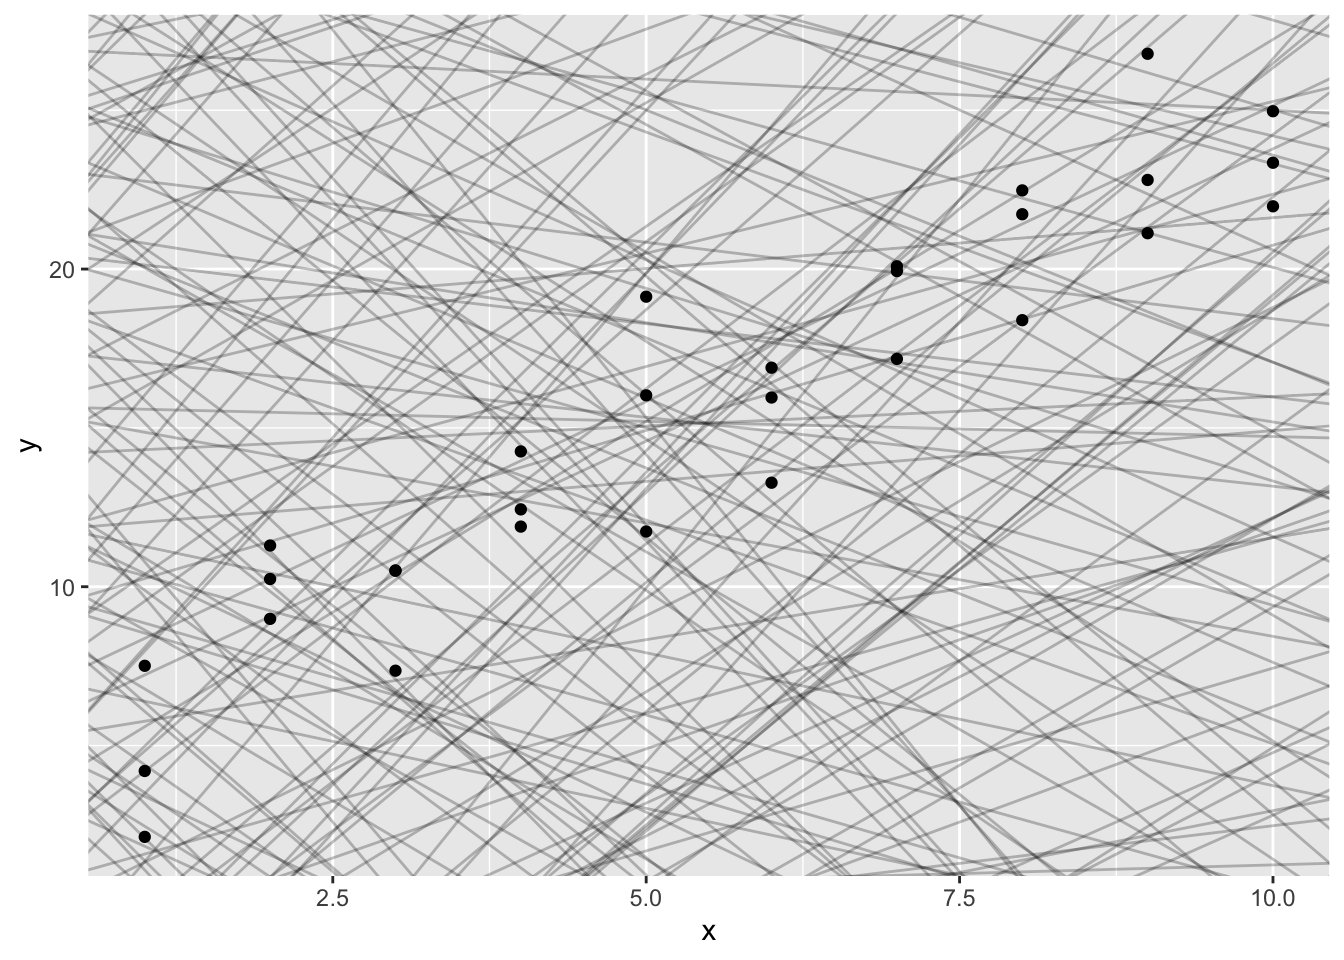
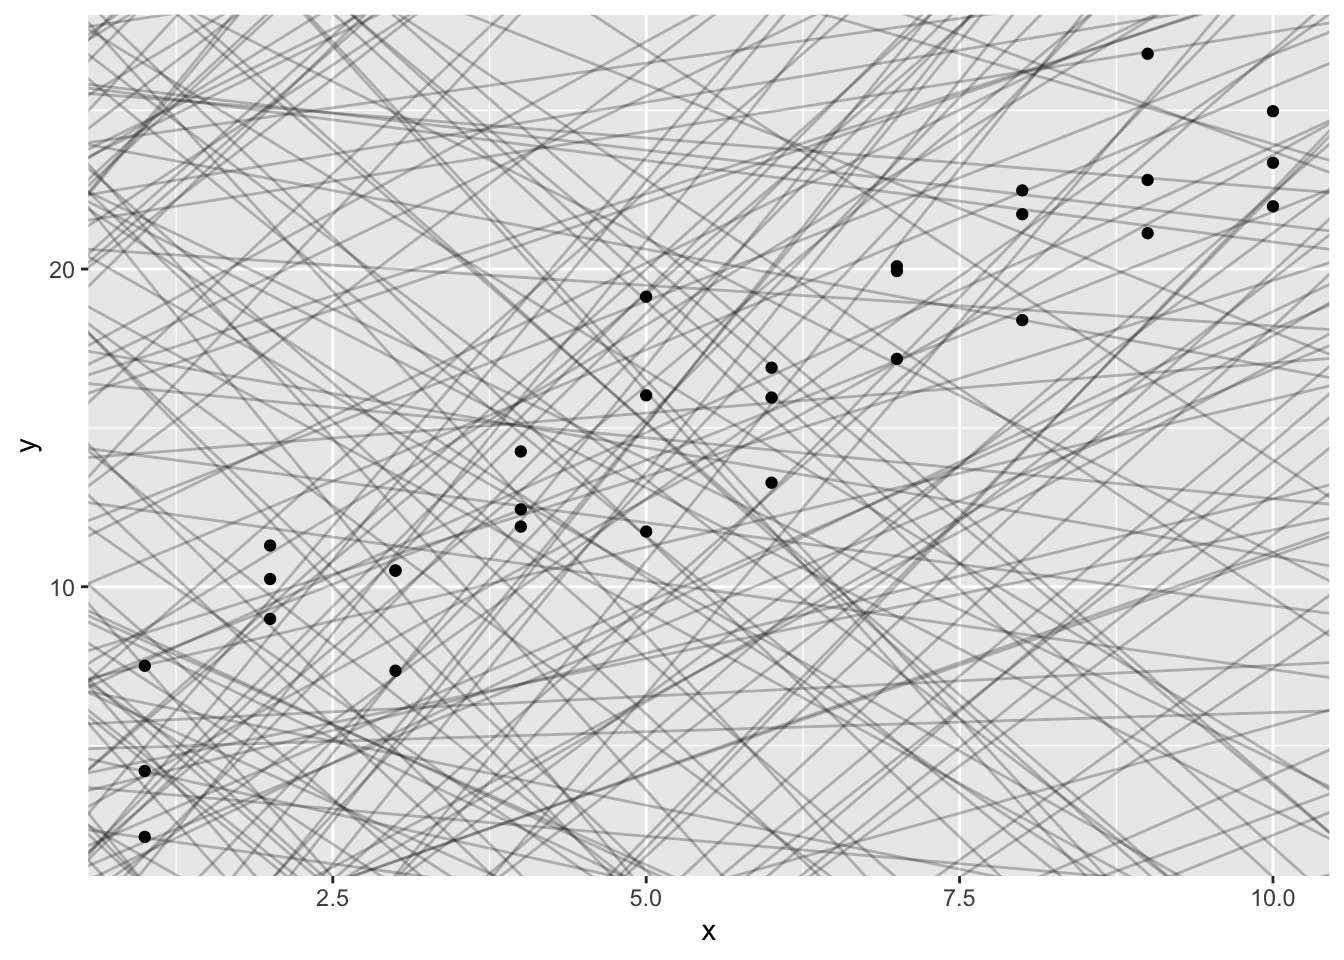
update

diff --git a/docs/index.html b/docs/index.html
@@ -156,8 +156,8 @@ ul.task-list li input[type="checkbox"] {
 <p><i class="fa-solid fa-calendar" aria-label="calendar"></i> &nbsp; Sep 5 - Sep 15</p>
 <p><i class="fa-solid fa-map-marker" aria-label="map-marker"></i> &nbsp; TMEC 443<a href="#fn1" class="footnote-ref" id="fnref1" role="doc-noteref"><sup>1</sup></a></p>
 </section>
-<section id="instructor" class="level3 unnumbered">
-<h3 class="unnumbered">Instructor</h3>
+<section id="instructors" class="level3 unnumbered">
+<h3 class="unnumbered">Instructors</h3>
 <div class="columns">
 <div class="column" style="width:50%;">
 <section id="eren-ada-phd" class="level5">
@@ -169,11 +169,9 @@ ul.task-list li input[type="checkbox"] {
 <p><i class="fa-solid fa-calendar" aria-label="calendar"></i> &nbsp; By Appointment</p>
 </blockquote>
 </section>
-<section id="teaching-assistant" class="level3 unnumbered">
-<h3 class="unnumbered" data-anchor-id="teaching-assistant">Teaching Assistant</h3>
 <div class="column" style="width:50%;">
-<section id="jessica-frank" class="level5">
-<h5 data-anchor-id="jessica-frank"><i class="fa-solid fa-user" aria-label="user"></i> &nbsp; Jessica Frank</h5>
+<section id="jessica-frank-teaching-assistant" class="level5">
+<h5 data-anchor-id="jessica-frank-teaching-assistant"><i class="fa-solid fa-user" aria-label="user"></i> &nbsp; Jessica Frank (Teaching Assistant)</h5>
 <blockquote class="blockquote">
 <p><i class="fa-solid fa-university" aria-label="university"></i> PhD Student at Immunology, HMS</p>
 <p><i class="fa-solid fa-envelope" aria-label="envelope"></i> &nbsp; <a href="mailto:jfrank@g.harvard.edu">jfrank@g.harvard.edu</a></p>
@@ -184,13 +182,12 @@ ul.task-list li input[type="checkbox"] {
 </blockquote>
 </section>
 </div>
-</section>
 </div><section id="schedule" class="level2">
 <h2 data-anchor-id="schedule">Schedule</h2>
 <div class="cell">
 <div class="cell-output-display">
-<div class="reactable html-widget html-fill-item" id="htmlwidget-8379cd2a6481643dfc7d" style="width:auto;height:auto;"></div>
-<script type="application/json" data-for="htmlwidget-8379cd2a6481643dfc7d">{"x":{"tag":{"name":"Reactable","attribs":{"data":{"Session":["R Basics","Functions and Data Wrangling","Data Visualization","Introduction to Models",null,null,null,null,null],"Date":["3-Sep","5-Sep","10-Sep","12-Sep",null,null,null,null,null],"Time":["9:00am - 11:00am","9:00am - 11:00am","9:00am - 11:00am","9:00am - 11:00am",null,null,null,null,null]},"columns":[{"id":"Session","name":"Session","type":"character"},{"id":"Date","name":"Date","type":"character"},{"id":"Time","name":"Time","type":"character"}],"sortable":false,"theme":{"color":"#212529","backgroundColor":"#ffffff","borderColor":"#ffffff","borderWidth":"1px","stripedColor":"#ecf0f1","highlightColor":"#ecf0f1","cellPadding":6,"tableStyle":{"fontSize":14},"headerStyle":{"borderWidth":"2px","backgroundColor":"#2c3e50","color":"#ffffff","transitionDuration":"0.5s","&:hover[aria-sort]":{"color":"#1cbc9c"},"&[aria-sort='ascending'], &[aria-sort='descending']":{"color":"#1cbc9c"},"fontSize":15},"groupHeaderStyle":{"&:not(:empty)":{"color":"#212529","fontSize":15},"&:hover":{"fontWeight":"bold","transitionDuration":"1s","transitionTimingFunction":"ease-out","color":"#1cbc9c"}},"rowSelectedStyle":{"backgroundColor":"#2c3e50","color":"#ffffff"},"inputStyle":{"backgroundColor":"#ffffff","color":"#212529"},"searchInputStyle":{"backgroundColor":"#ffffff","color":"#212529","&:focus":{"color":"#212529"}},"selectStyle":{"backgroundColor":"#18bc9c","color":"#ffffff","borderColor":"#ffffff","outlineColor":"#ffffff","&:hover":{"backgroundColor":"#0f7864"}},"pageButtonStyle":{"backgroundColor":"#18bc9c","color":"#ffffff","&:hover":{"backgroundColor":"#0f7864"}},"pageButtonHoverStyle":{"backgroundColor":"#0f7864","color":"#ffffff"},"pageButtonActiveStyle":{"backgroundColor":"#0f7864","color":"#ffffff"},"pageButtonCurrentStyle":{"backgroundColor":"#0f7864","color":"#ffffff"}},"dataKey":"c2d299dcc1453c21a02ff924514fc886"},"children":[]},"class":"reactR_markup"},"evals":[],"jsHooks":[]}</script>
+<div class="reactable html-widget html-fill-item" id="htmlwidget-ca5a7edb5cad6c189465" style="width:auto;height:auto;"></div>
+<script type="application/json" data-for="htmlwidget-ca5a7edb5cad6c189465">{"x":{"tag":{"name":"Reactable","attribs":{"data":{"Session":["R Basics","Functions and Data Wrangling","Data Visualization","Introduction to Models",null,null,null,null,null],"Date":["3-Sep","5-Sep","10-Sep","12-Sep",null,null,null,null,null],"Time":["9:00am - 11:00am","9:00am - 11:00am","9:00am - 11:00am","9:00am - 11:00am",null,null,null,null,null]},"columns":[{"id":"Session","name":"Session","type":"character"},{"id":"Date","name":"Date","type":"character"},{"id":"Time","name":"Time","type":"character"}],"sortable":false,"theme":{"color":"#212529","backgroundColor":"#ffffff","borderColor":"#ffffff","borderWidth":"1px","stripedColor":"#ecf0f1","highlightColor":"#ecf0f1","cellPadding":6,"tableStyle":{"fontSize":14},"headerStyle":{"borderWidth":"2px","backgroundColor":"#2c3e50","color":"#ffffff","transitionDuration":"0.5s","&:hover[aria-sort]":{"color":"#1cbc9c"},"&[aria-sort='ascending'], &[aria-sort='descending']":{"color":"#1cbc9c"},"fontSize":15},"groupHeaderStyle":{"&:not(:empty)":{"color":"#212529","fontSize":15},"&:hover":{"fontWeight":"bold","transitionDuration":"1s","transitionTimingFunction":"ease-out","color":"#1cbc9c"}},"rowSelectedStyle":{"backgroundColor":"#2c3e50","color":"#ffffff"},"inputStyle":{"backgroundColor":"#ffffff","color":"#212529"},"searchInputStyle":{"backgroundColor":"#ffffff","color":"#212529","&:focus":{"color":"#212529"}},"selectStyle":{"backgroundColor":"#18bc9c","color":"#ffffff","borderColor":"#ffffff","outlineColor":"#ffffff","&:hover":{"backgroundColor":"#0f7864"}},"pageButtonStyle":{"backgroundColor":"#18bc9c","color":"#ffffff","&:hover":{"backgroundColor":"#0f7864"}},"pageButtonHoverStyle":{"backgroundColor":"#0f7864","color":"#ffffff"},"pageButtonActiveStyle":{"backgroundColor":"#0f7864","color":"#ffffff"},"pageButtonCurrentStyle":{"backgroundColor":"#0f7864","color":"#ffffff"}},"dataKey":"c2d299dcc1453c21a02ff924514fc886"},"children":[]},"class":"reactR_markup"},"evals":[],"jsHooks":[]}</script>
 </div>
 </div>
 

diff --git a/docs/session-materials/session1/other-data-types.html b/docs/session-materials/session1/other-data-types.html
@@ -440,16 +440,16 @@ Levels: high low medium</code></pre>
 <div class="sourceCode cell-code" id="cb10"><pre class="sourceCode r code-with-copy"><code class="sourceCode r"><span id="cb10-1"><a href="#cb10-1" aria-hidden="true" tabindex="-1"></a>df</span></code><button title="Copy to Clipboard" class="code-copy-button"><i class="bi"></i></button></pre></div>
 <div class="cell-output cell-output-stdout">
 <pre><code>   gene_names expression numeric_expression
-1         Asl       high          4976.7716
-2        Apod        low          1500.3325
-3     Cyp2d22        low           187.8776
-4        Klk6     medium          2528.6701
-5       Fcrls       high          4426.9220
-6      Slc2a4     medium          2054.2431
-7        Exd2     medium          1858.0027
-8        Gjc2        low          1841.7497
-9        Plp1        low         -1104.2861
-10       Gnb4        low          2425.0649</code></pre>
+1         Asl       high          2695.4764
+2        Apod        low          -317.4054
+3     Cyp2d22        low          1636.4373
+4        Klk6     medium          1001.9097
+5       Fcrls       high          2528.0815
+6      Slc2a4     medium           197.9132
+7        Exd2     medium          1269.6787
+8        Gjc2        low           202.6665
+9        Plp1        low          1832.2478
+10       Gnb4        low          1696.8919</code></pre>
 </div>
 </div>
 </section>
@@ -473,16 +473,16 @@ Levels: low medium high
 
 [[2]]
    gene_names expression numeric_expression
-1         Asl       high          4976.7716
-2        Apod        low          1500.3325
-3     Cyp2d22        low           187.8776
-4        Klk6     medium          2528.6701
-5       Fcrls       high          4426.9220
-6      Slc2a4     medium          2054.2431
-7        Exd2     medium          1858.0027
-8        Gjc2        low          1841.7497
-9        Plp1        low         -1104.2861
-10       Gnb4        low          2425.0649
+1         Asl       high          2695.4764
+2        Apod        low          -317.4054
+3     Cyp2d22        low          1636.4373
+4        Klk6     medium          1001.9097
+5       Fcrls       high          2528.0815
+6      Slc2a4     medium           197.9132
+7        Exd2     medium          1269.6787
+8        Gjc2        low           202.6665
+9        Plp1        low          1832.2478
+10       Gnb4        low          1696.8919
 
 [[3]]
 [1] 102</code></pre>

diff --git a/docs/session-materials/session4/A-simple-model.html b/docs/session-materials/session4/A-simple-model.html
@@ -461,18 +461,18 @@ pre > code.sourceCode > span > a:first-child::before { text-decoration: underlin
 <span id="cb9-8"><a href="#cb9-8" aria-hidden="true" tabindex="-1"></a>models</span></code><button title="Copy to Clipboard" class="code-copy-button"><i class="bi"></i></button></pre></div>
 <div class="cell-output cell-output-stdout">
 <pre><code># A tibble: 250 × 3
-       a1     a2  dist
-    &lt;dbl&gt;  &lt;dbl&gt; &lt;dbl&gt;
- 1  21.4  -0.625  8.36
- 2 -13.4  -3.84  52.9 
- 3  11.5   1.08   4.02
- 4   6.72  2.83   7.44
- 5 -10.1   3.24   8.79
- 6 -11.6  -3.29  47.8 
- 7 -14.8   0.974 25.3 
- 8  19.9   4.66  31.0 
- 9  -5.18 -3.60  43.7 
-10 -11.5  -0.158 28.6 
+       a1      a2  dist
+    &lt;dbl&gt;   &lt;dbl&gt; &lt;dbl&gt;
+ 1  -1.09  4.77   12.6 
+ 2  18.3   3.44   22.2 
+ 3 -14.9  -0.714  35.3 
+ 4 -10.8   3.05   10.2 
+ 5 -13.3   0.795  24.8 
+ 6  16.0   1.28    8.10
+ 7 -18.7  -0.0493 35.1 
+ 8  35.4   1.72   29.5 
+ 9  -3.33 -3.85   43.5 
+10  38.5   2.61   37.4 
 # ℹ 240 more rows</code></pre>
 </div>
 </div>
